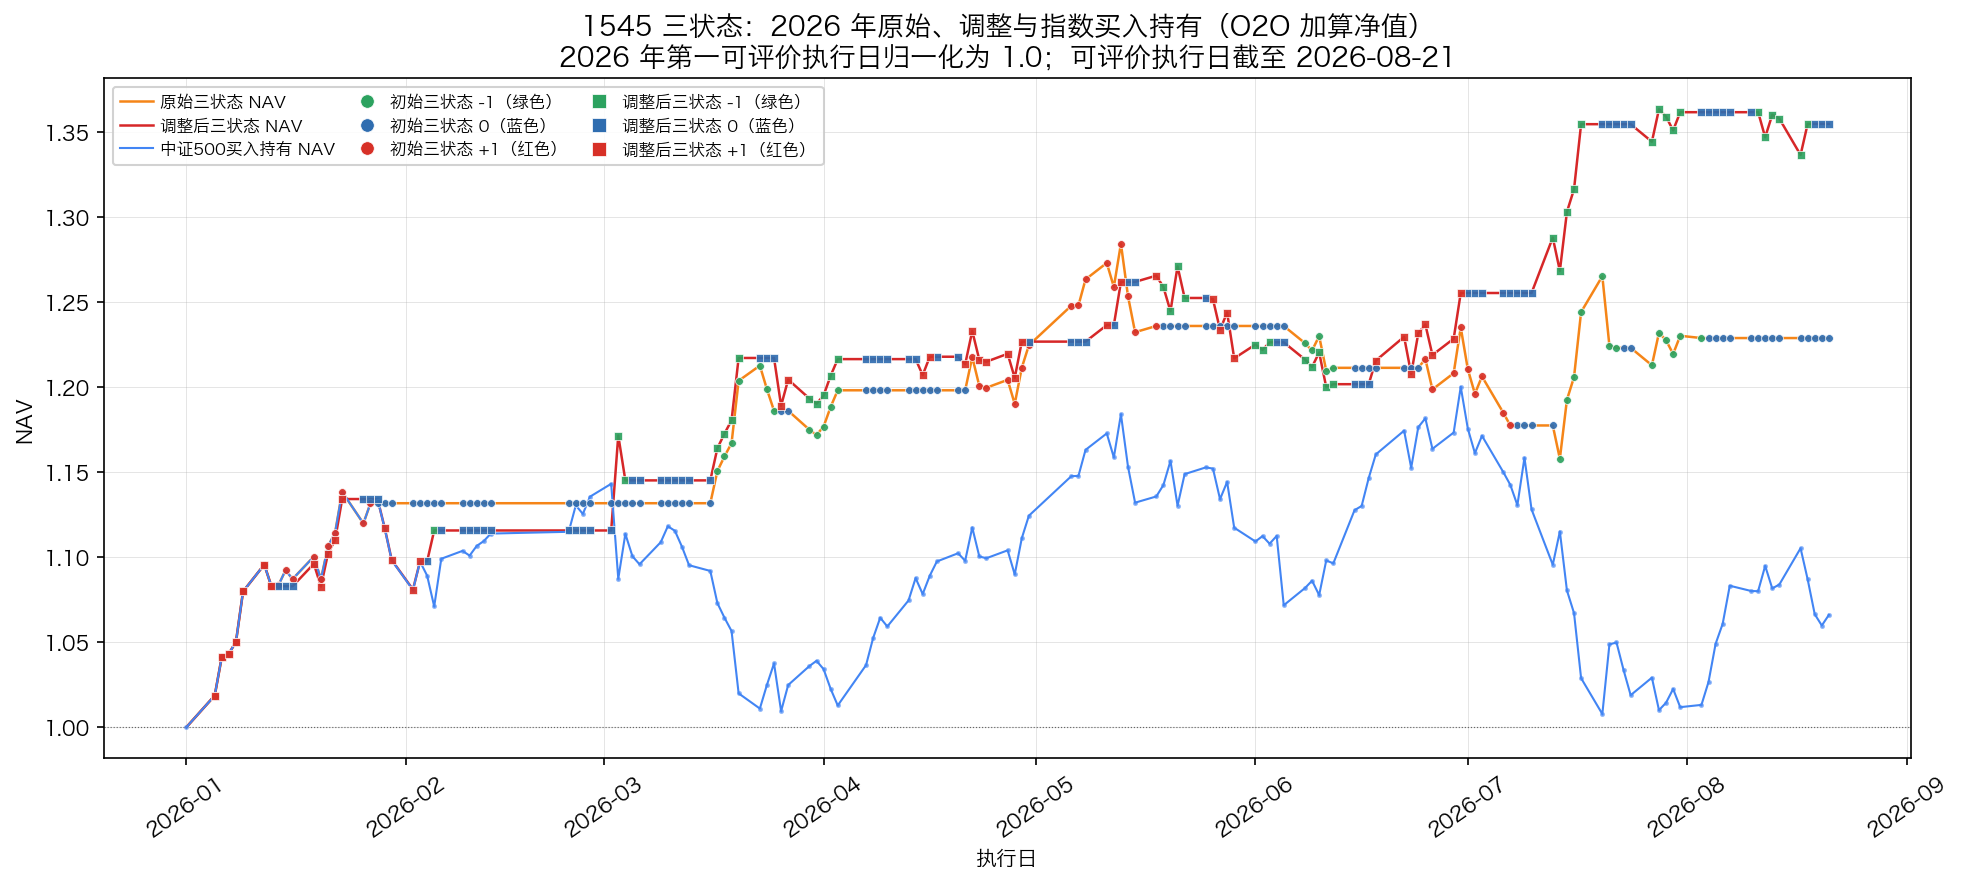
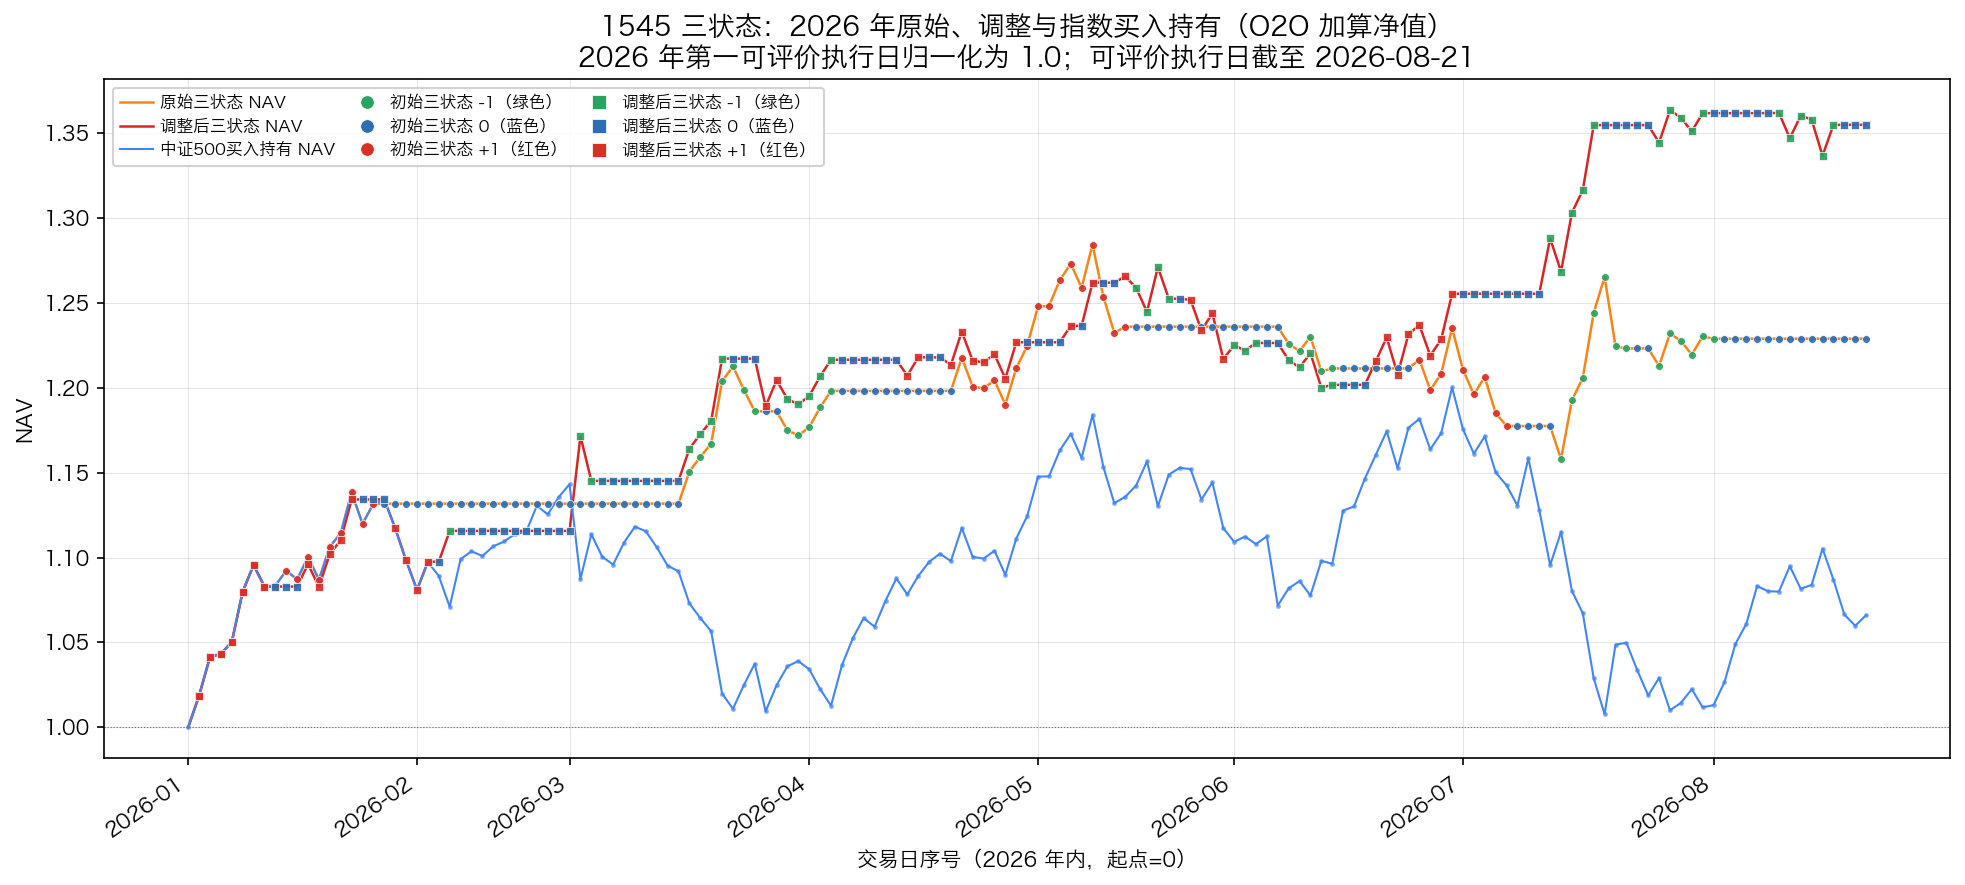
将2026净值图改为交易日横轴

diff --git a/20260825_1248_冻结中证500输出包/src/reproduce_remote_o2o.py b/20260825_1248_冻结中证500输出包/src/reproduce_remote_o2o.py
@@ -1306,8 +1306,10 @@ def _write_2026_nav_comparison(frame: pd.DataFrame, output_dir: Path) -> dict[st
     year["raw_nav_2026"] = 1.0 + year["原始策略日收益"].cumsum()
     year["adjusted_nav_2026"] = 1.0 + year["调整策略日收益"].cumsum()
     year["index_nav_2026"] = 1.0 + year["指数日收益"].cumsum()
-    baseline_date = pd.Timestamp("2026-01-01")
-    plot_dates = pd.concat([pd.Series([baseline_date]), year["实际执行日"]], ignore_index=True)
+    # Use an equally spaced trading-day axis.  Calendar dates would create
+    # visual gaps for weekends and holidays even though every evaluated row
+    # is present.
+    plot_dates = pd.Series(np.arange(len(year) + 1, dtype=float))
     raw_nav = pd.concat([pd.Series([1.0]), year["raw_nav_2026"]], ignore_index=True)
     adjusted_nav = pd.concat([pd.Series([1.0]), year["adjusted_nav_2026"]], ignore_index=True)
     index_nav = pd.concat([pd.Series([1.0]), year["index_nav_2026"]], ignore_index=True)
@@ -1348,10 +1350,16 @@ def _write_2026_nav_comparison(frame: pd.DataFrame, output_dir: Path) -> dict[st
         weight="bold",
     )
     ax.set_ylabel("NAV")
-    ax.set_xlabel("执行日")
+    ax.set_xlabel("交易日序号（2026 年内，起点=0）")
     ax.grid(True, alpha=0.35, linewidth=0.45)
-    ax.xaxis.set_major_locator(mdates.MonthLocator())
-    ax.xaxis.set_major_formatter(mdates.DateFormatter("%Y-%m"))
+    actual_dates = year["实际执行日"].reset_index(drop=True)
+    month_start = actual_dates.dt.to_period("M").ne(actual_dates.dt.to_period("M").shift())
+    month_positions = (actual_dates.index[month_start] + 1).tolist()
+    month_labels = actual_dates.loc[month_start].dt.strftime("%Y-%m").tolist()
+    # The baseline and the first January trading day are adjacent; use one
+    # January label at the baseline and keep the later month labels separate.
+    ax.set_xticks([0] + month_positions[1:])
+    ax.set_xticklabels(month_labels, rotation=35, ha="right")
     ax.tick_params(axis="x", rotation=35)
     _add_state_marker_legend(ax, ncol=3, loc="upper left")
     fig.tight_layout()

diff --git a/03_汇报版本/20260825_500三状态最终冻结/500三状态最终冻结_最终汇报展示版_20260825.md b/03_汇报版本/20260825_500三状态最终冻结/500三状态最终冻结_最终汇报展示版_20260825.md
@@ -162,13 +162,8 @@
 
 \* 2026 年统计截至最后可评价执行日 2026-08-21。
 
-从市场环境看，策略更容易在方向切换较快、波动较高、或指数震荡下行而不是平滑单边上涨的区间取得较明显的绝对收益和超额收益：2018 年的下跌、2019 年的修复上涨、2022 年的下跌震荡，以及 2024—2026 年的高波动与快速切换，都属于已经观察到的有效阶段。相对而言，在持续、平滑的单边上涨阶段，策略即使取得正收益，也可能不及指数直接持有；反转层的增益也主要发生在短期方向变化集中、基础 0 状态较多的阶段，并非所有行情都同样有效。
+从市场环境看，策略更容易在方向切换较快、波动较高、或指数震荡下行区间取得较明显的绝对收益和超额收益：2018 年的下跌、2019 年的修复上涨、2022 年的下跌震荡，以及 2024—2026 年的高波动与快速切换，都属于已经观察到的有效阶段。相对而言，在持续、平滑的单边上涨阶段，策略即使取得正收益，也可能不及指数直接持有；反转层的增益也主要发生在短期方向变化集中、基础 0 状态较多的阶段，并非所有行情都同样有效。
 
-### 按训练、验证和测试阶段看
-
-- **训练期 2018—2022**：原始三状态在 2018 年亏损，但 2019—2022 年均赚钱；加入四反转后五年均为正，尤其 2019 年和 2022 年表现突出。也就是说，在 2026 年之前，策略已经在上涨、震荡和指数下跌环境中出现过有效结果。
-- **验证期 2023—2024**：原始和调整结果两年均为正。2023 年反转层略有拖累，但仍跑赢下跌的指数；2024 年反转层将原始 +28.58% 提升至 +59.10%。
-- **测试期 2025—2026**：原始和调整结果均连续为正，加入反转后的收益分别为 +42.93% 和 +35.48%，说明 2026 的表现不是只在训练期成立，也不是单年偶然现象。
 
 ### 2026 年单独视图
 
@@ -176,16 +171,6 @@
 
 这张图把 2026 年单独展开，沿用全周期图的 O2O 加算口径，并将 2026 年第一可评价执行日归一化为 1.0：横轴为执行日，纵轴为 2026 年内的加算净值；橙线是原始三状态，红线是加入四个反转后的调整三状态，蓝线是中证500买入持有。圆点表示初始三状态，方点表示调整后三状态；点的颜色统一表示执行日状态，绿色为 -1、蓝色为 0、红色为 +1。图只画已经有下一实际交易日开盘价的可评价执行日，因此截至 2026-08-21；之后尚无下一开盘价的行保留在信号审计中，但不回填到收益曲线。
 
-图上的点只落在实际交易日，不按周末和节假日补点；因此横轴按自然日期展开时，周末、节假日之间会出现空白区间。这些空白不代表 0 状态、缺失信号或收益被回填；本图的 154 个可评价交易日的净值和状态字段均完整，线段只是连接相邻实际交易日。
+图的横轴已改为 2026 年内的交易日序号，起点为 0，之后每个可评价实际交易日占一个等距位置；下方月份标签对应当月第一个交易日。周末和节假日不再占用横轴位置，因此点和线按交易日连续排列。本图的 154 个可评价交易日的净值和状态字段均完整，不存在缺失信号、占位或回填。
 
 图中可以直接观察 2026 年各条策略净值的上行或回撤阶段，以及反转层相对原始三状态的增量；这张图用于看全年路径，不再拆成逐月文字表。
-
-### 三个红色区间中原始与调整结果
-
-- **2023-11-01—2024-01-15**：原始三状态 +1.95%，加入四反转 -2.61%。基础状态赚钱，但新增的方向响应没有匹配后续 O2O，反转层拖累结果。
-- **2024-04-15—2024-09-13**：原始三状态 -1.13%，加入四反转 +10.05%。这是反转层把基础 0 区间转化为有效方向暴露的典型阶段。
-- **2025-03-03—2025-07-15**：原始三状态 +4.07%，加入四反转 +17.58%。两者均赚钱，反转层进一步捕捉了快速方向变化。
-
-### 2026 年之前已经出现过的有效行情
-
-2026 年的行情和表现并非没有历史参照：2019 年加入反转后收益为 +71.38%，2022 年在指数下跌 -20.99% 时仍取得 +28.81%，2024 年在高波动阶段取得 +59.10%，2025 年在指数上涨背景下取得 +42.93%。因此更稳妥的结论是：2026 年的识别速度和收益表现延续了此前多个阶段已经验证过的能力；2026 年更快的切换是当前阶段的特征，不是策略首次赚钱的证据。
